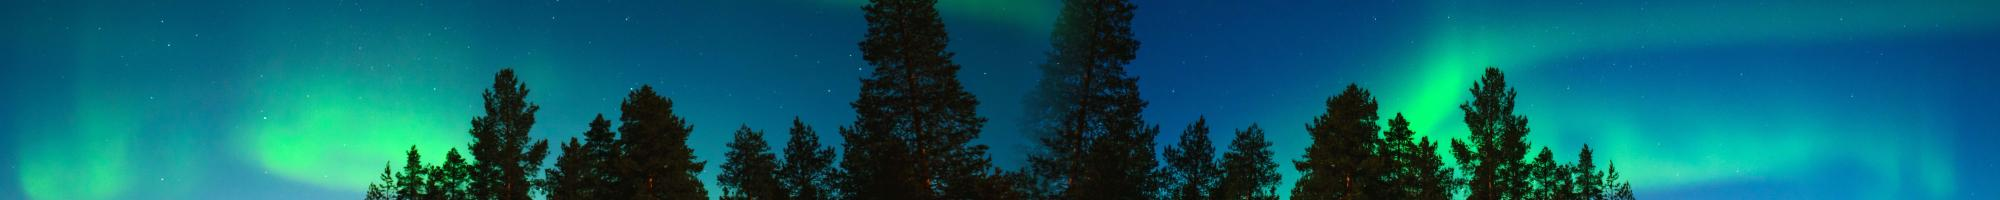
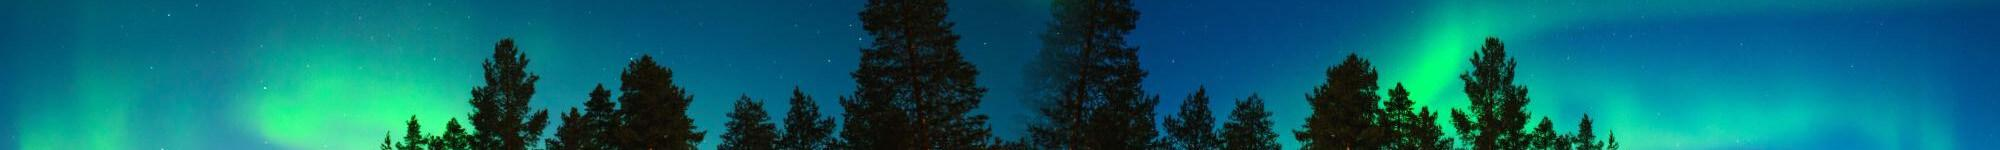
Optimointia

diff --git a/assets/scss/style.scss b/assets/scss/style.scss
@@ -45,6 +45,8 @@ $retina-dpi: 144dpi;
 
 //urls
 $palkki: url(/resurssit/imagebar.jpg);
+$palkki2: url(/resurssit/imagebar_1200.jpg);
+$palkki3: url(/resurssit/imagebar_720.jpg);
 $vihje: url(/resurssit/tip.png);
 $vihje2: url(/resurssit/tip@2x.png);
 $huom: url(/resurssit/note.png);
@@ -143,7 +145,16 @@ figure {
 section.hero {
 	background-color: #005577;
 	.hero-body {
-		background-image: $palkki;
+		background-image: $palkki3;
+
+		@media screen and (min-width: 720px) {
+			background-image: $palkki2;
+		}
+
+		@media screen and (min-width: 1200px) {
+			background-image: $palkki;
+		}
+
 		background-position: center;
 		.level-item {
 			a {

diff --git a/layouts/partials/header.html b/layouts/partials/header.html
@@ -1,14 +1,6 @@
 <!doctype html>
 <html lang="fi" class="has-navbar-fixed-top">
 <head>
-	<!-- Global site tag (gtag.js) - Google Analytics -->
-	<script async src="https://www.googletagmanager.com/gtag/js?id=G-QC4L0PSHZL"></script>
-	<script>
-		window.dataLayer = window.dataLayer || [];
-		function gtag(){dataLayer.push(arguments);}
-		gtag('js', new Date());
-		gtag('config', 'G-QC4L0PSHZL');
-	</script>
 	<meta charset="utf-8">
 	<meta name="language" content="fi"> 
 	<meta name="author" content="Jarno Ruokamo">
